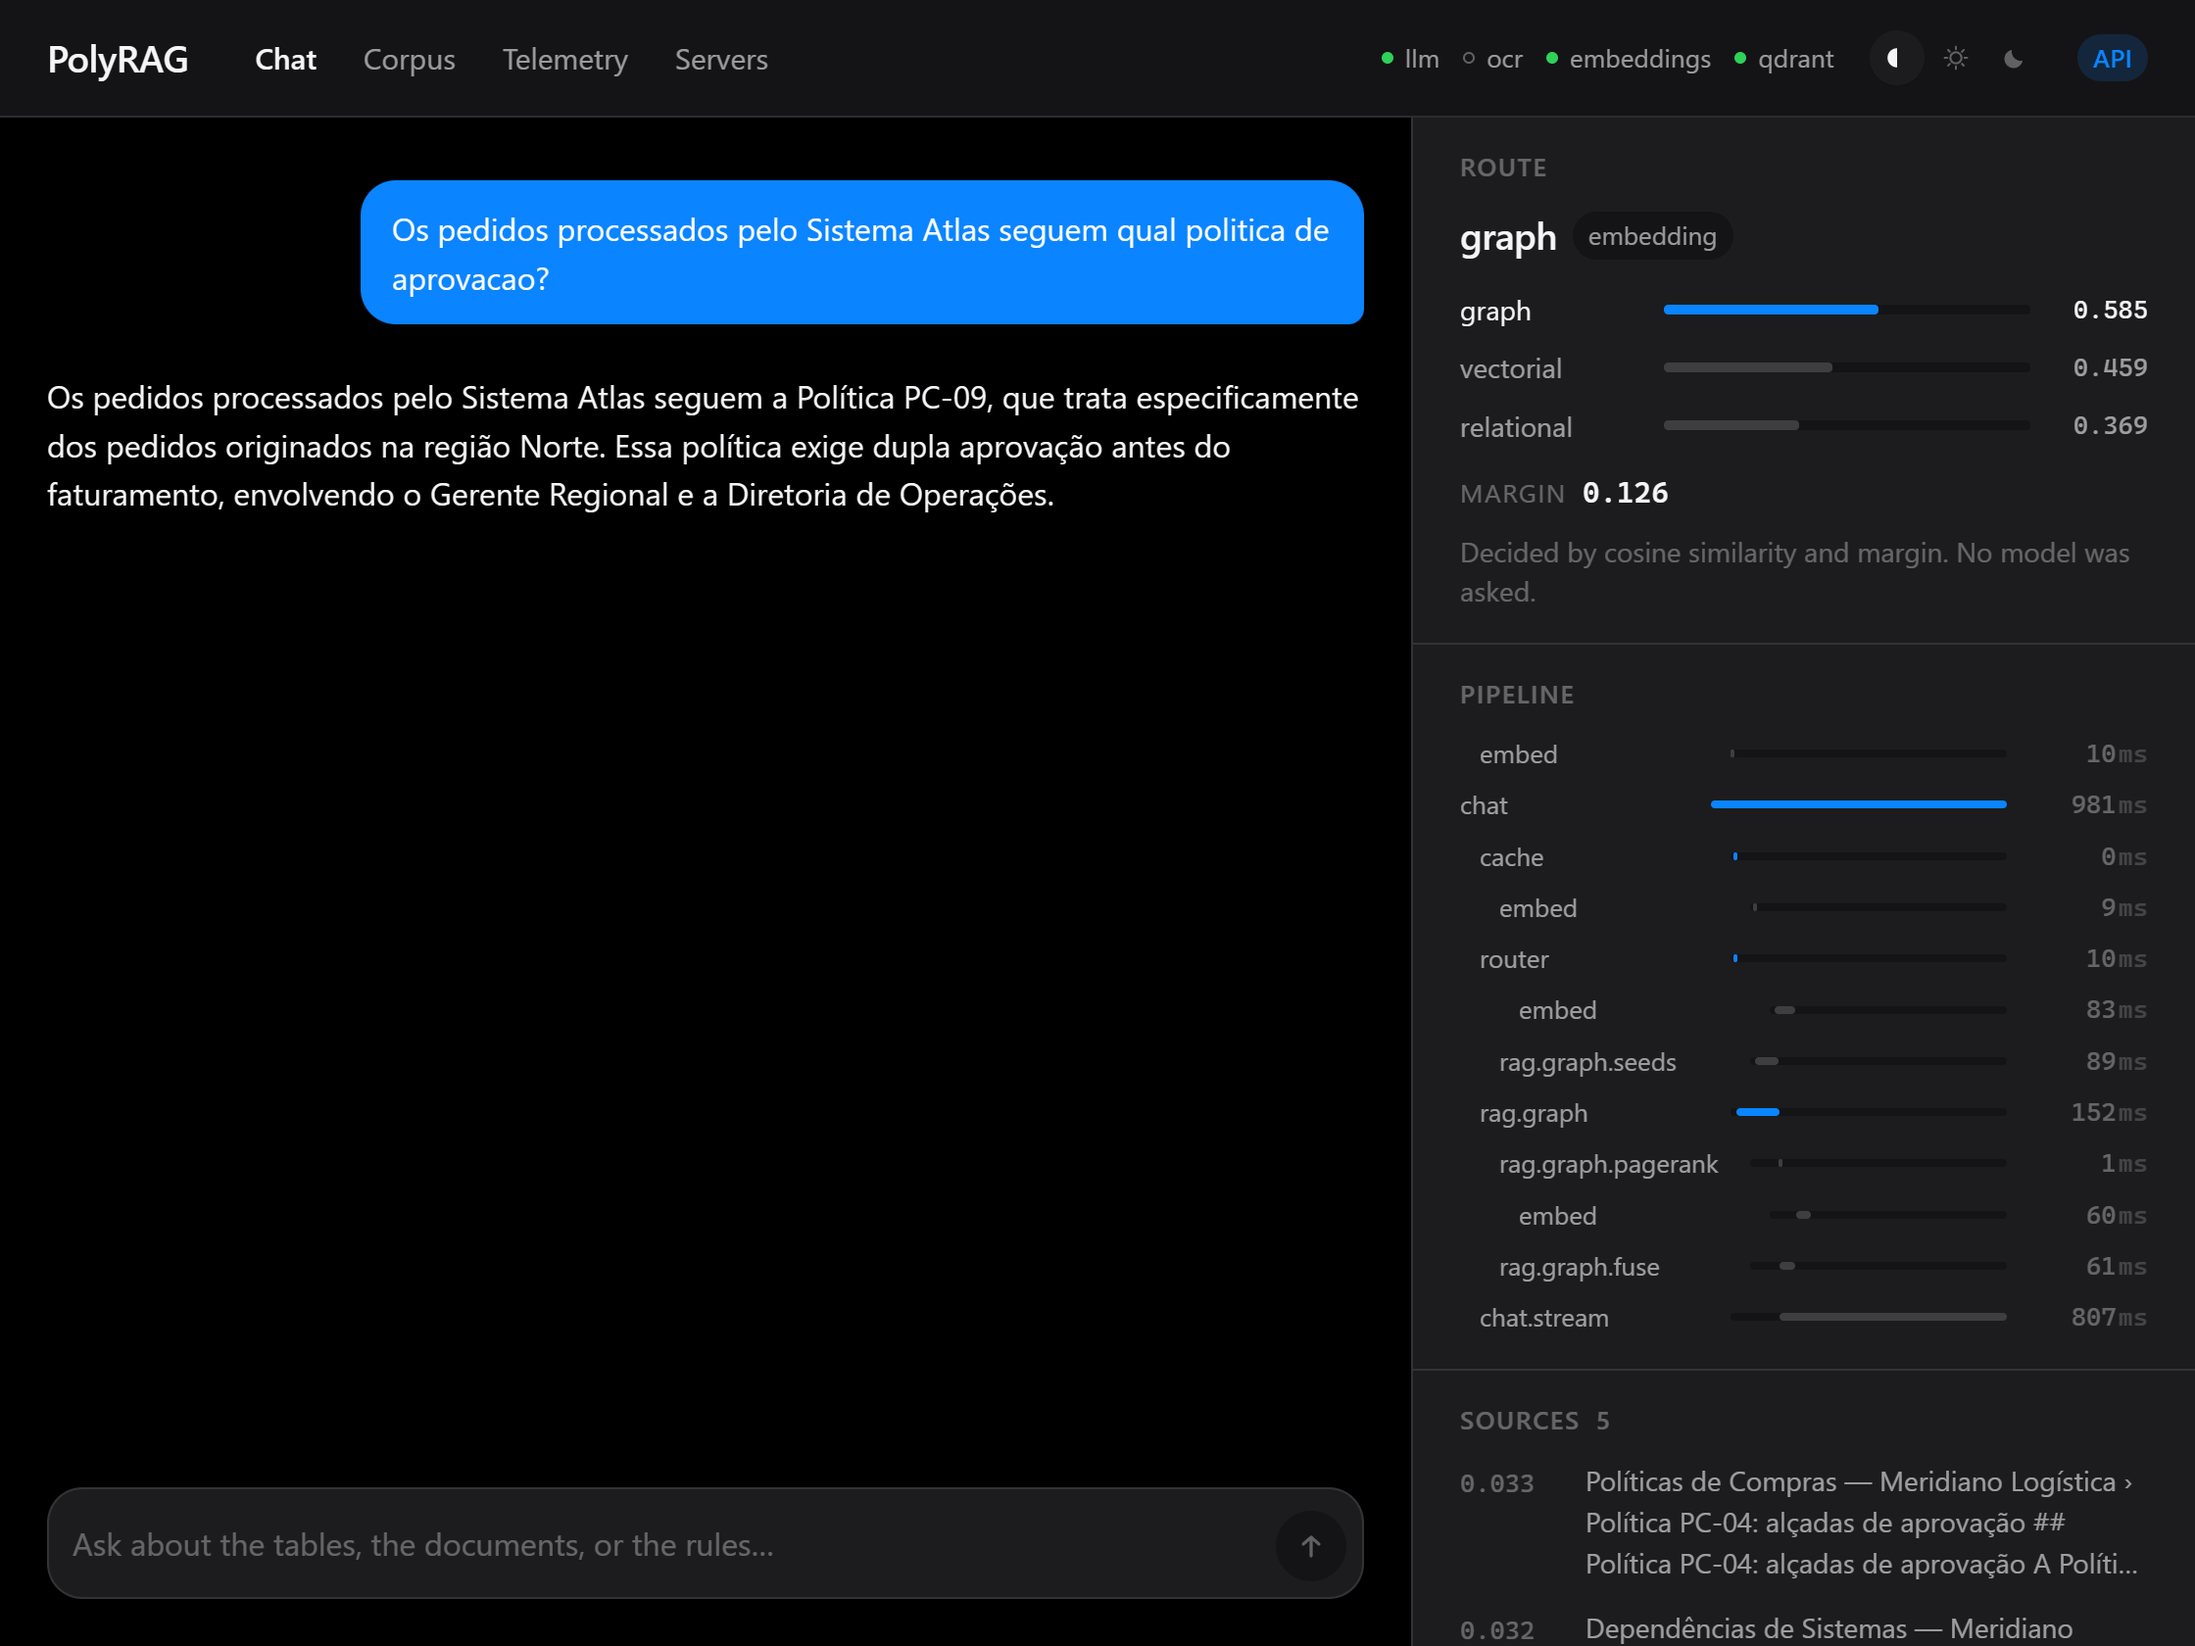
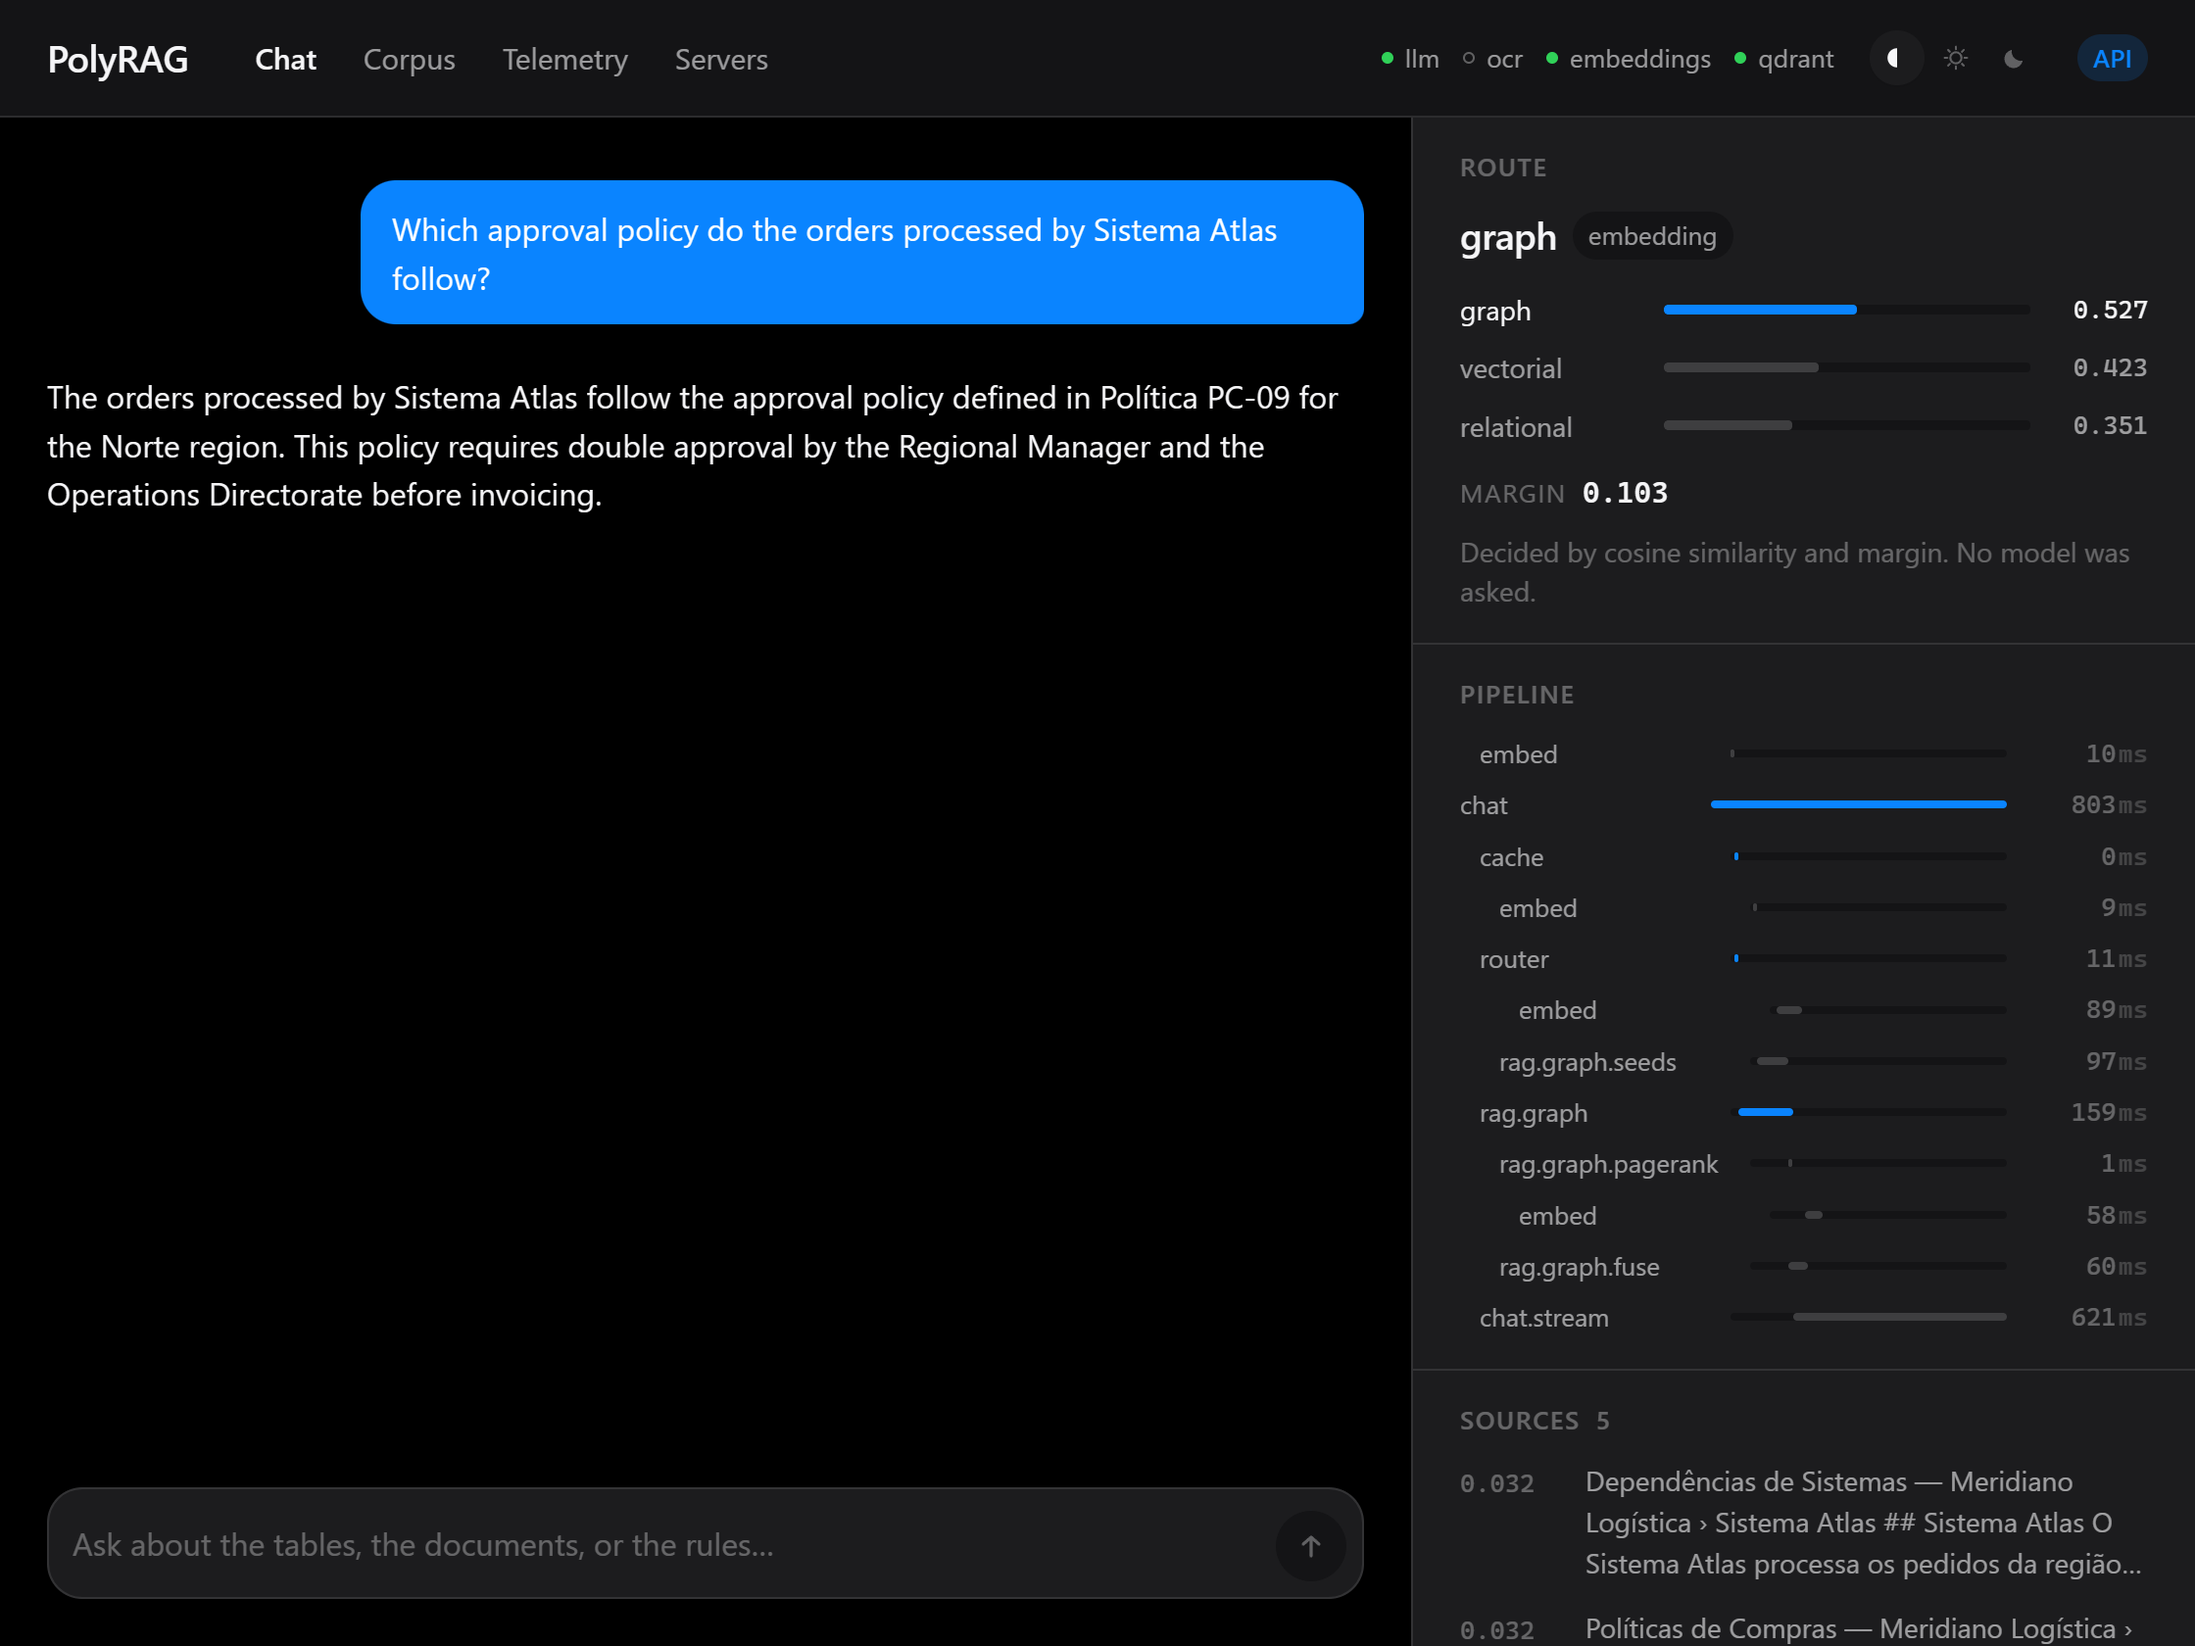
docs: ask the screenshots in English
The README is in English and the screenshots showed a Portuguese
conversation, which is a poor first impression for most of the people
who open the repository.

The corpus stays Portuguese and so do both evaluation sets, so no
measurement is invalidated. The questions are simply asked in English,
which the system already handles: BGE-M3 embeds both languages into one
space, so routing and retrieval work across them, and the answer follows
the question. The sources are shown untranslated, which is the honest
picture of what happened rather than a translation step that does not
exist.

Changed region(s): [[0.0312, 0.2167, 0.625, 0.3095], [0.7188, 0.8976, 0.9688, 1.0], [0.1875, 0.1238, 0.5938, 0.1857]]

diff --git a/scripts/screenshots.py b/scripts/screenshots.py
@@ -202,15 +202,19 @@ async def main() -> None:
 # and the process controls.
 SHOTS = [
     # name, path, question (None = just load the page), ask twice for a cache hit
-    ("chat-relational", "/", "Qual foi a receita total da regiao Sudeste?", False),
+    #
+    # Asked in English against a Portuguese corpus, on purpose. The answer follows
+    # the question's language and the sources show the passage as it was written,
+    # which is the multilingual behaviour rather than a translation step.
+    ("chat-relational", "/", "What was the total revenue of the Sudeste region?", False),
     (
         "chat-graph",
         "/",
-        "Os pedidos processados pelo Sistema Atlas seguem qual politica de aprovacao?",
+        "Which approval policy do the orders processed by Sistema Atlas follow?",
         False,
     ),
-    ("chat-evidence", "/", "Para qual banco o Banco de Dados Orion replica?", False),
-    ("chat-cache", "/", "Quem pode suspender o Contrato Marco 2026?", True),
+    ("chat-evidence", "/", "Which database does the Orion Database replicate to?", False),
+    ("chat-cache", "/", "Who can suspend the Contrato Marco 2026?", True),
     ("corpus", "/corpus", None, False),
     ("servers", "/servers", None, False),
     ("telemetry", "/telemetry", None, False),
